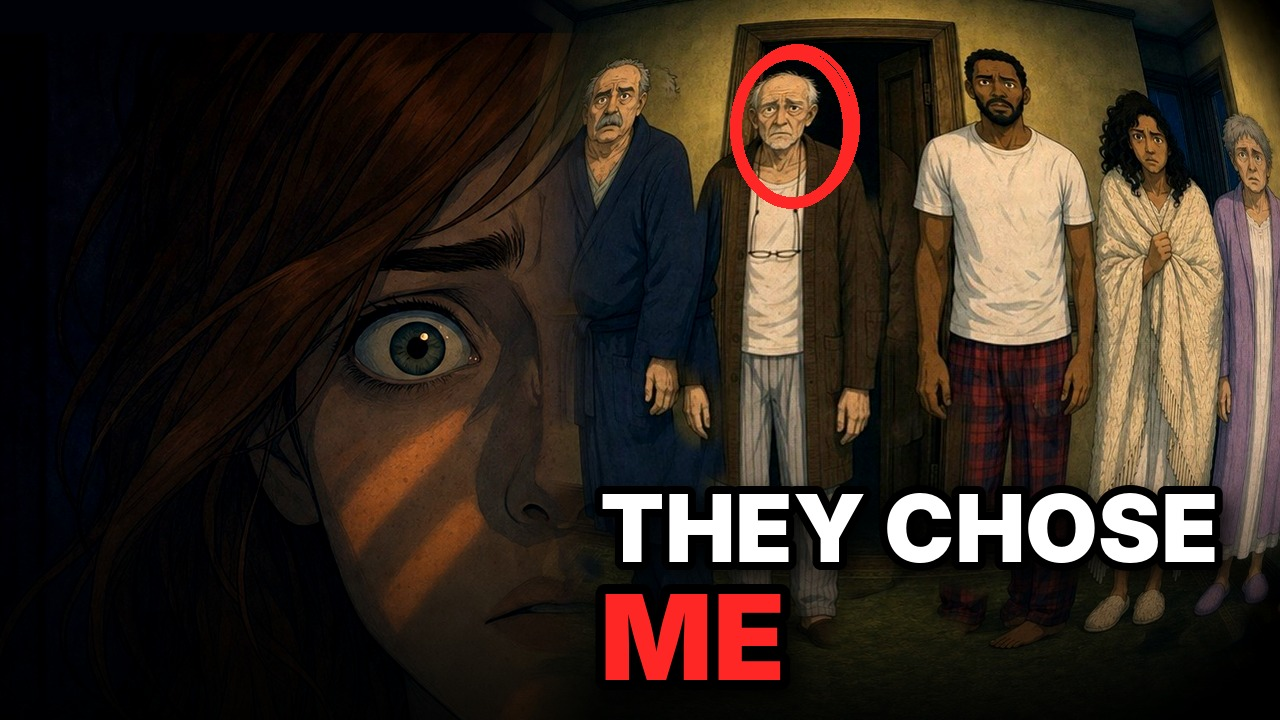
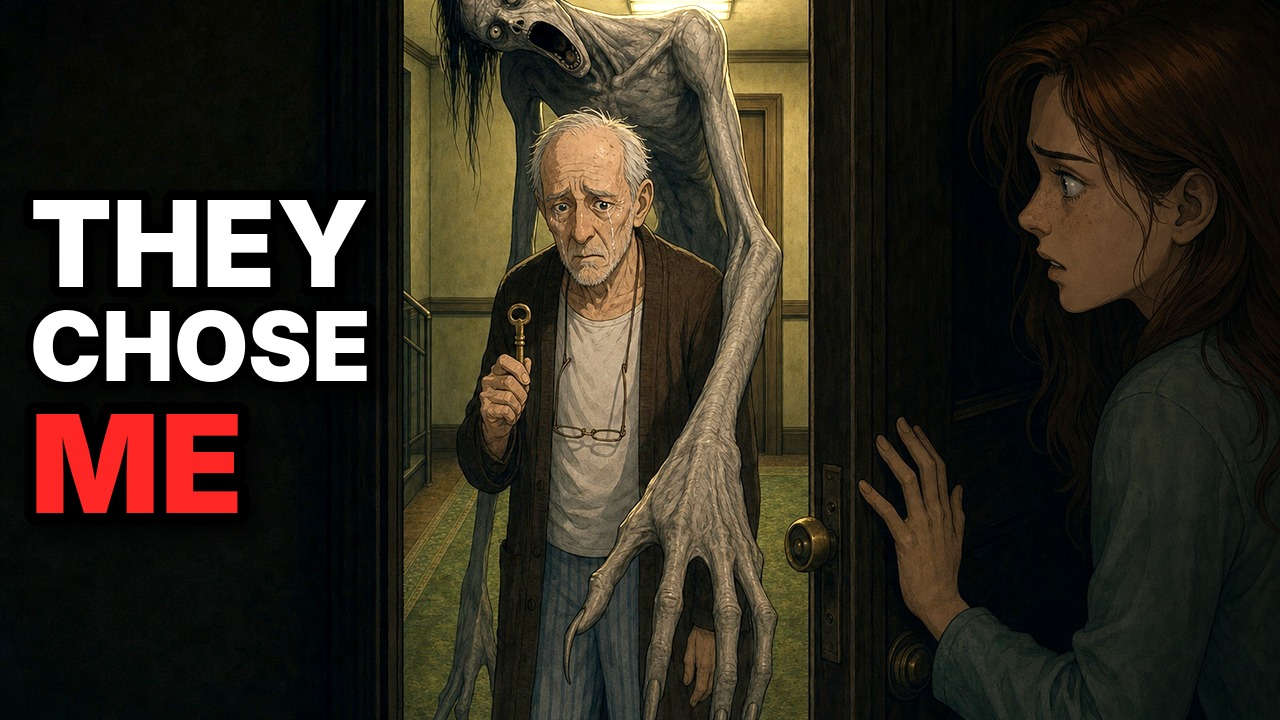
3:06: high-CTR YouTube package - purpose-drawn thumbnail art (3 concepts for Test & Compare), phone-feed preview, description hook and comment prompt within YouTube's 5,000-character limit, title alternatives, pinned comment, tags
Claude-Session: https://claude.ai/code/session_01HYgoxans3AHT78NQRMkcgm

diff --git a/door306-horror/scripts/images/thumbart.py b/door306-horror/scripts/images/thumbart.py
@@ -1,0 +1,100 @@
+#!/usr/bin/env python3
+"""Thumbnail artwork for "Never Open Your Door at 3:06 AM", drawn on purpose for small-screen clicks.
+
+Each concept is a real moment of the film. It is drawn tighter, brighter and simpler than the film
+frame, with big readable faces and an empty area kept for the title text (added later in code by
+scripts/make_thumbnails.py, never drawn by the model).
+
+    .venv/bin/python scripts/images/thumbart.py [name ...]   -> youtube/art/<name>.jpg (1920x1080, no text)
+
+It uses the same references, cost ledger and budget cap as restyle.py, and skips a concept whose
+output already exists (delete the file to redraw it).
+"""
+import sys
+from pathlib import Path
+
+sys.path.insert(0, str(Path(__file__).resolve().parent))
+import restyle as R  # noqa: E402
+
+OUT = R.ROOT / 'youtube' / 'art'
+
+THUMB = (
+    'This is the YouTube THUMBNAIL artwork of the film, in exactly the film\'s drawing style: ONE bold image that reads instantly at '
+    'tiny phone size. Big faces with strong, clear expressions; strong contrast; a little brighter and more saturated than the film\'s '
+    'night frames, with a cold rim light that separates each figure from the background; a simple, uncluttered background. '
+    'Do NOT draw any text, letters, numbers or logos - the title is added later.'
+)
+
+CONCEPTS = {
+    # Scene 8: the door forced open - Mr. Harris with the master key, the creature behind him.
+    'key': {
+        'refs': ['char:harris', 'char:creature', 'char:sarah', 'loc:hallway_cross'],
+        'chars': ['harris', 'creature', 'sarah'],
+        'loc': 'hallway_cross',
+        'prompt': (
+            'Seen from INSIDE Sarah\'s dark flat, looking out through her front door, which has been forced half open. In the doorway, in '
+            'the yellow-green light of the corridor: Mr. Harris, crying, tears on his cheeks, guilty eyes looking down and away, holding up '
+            'a brass master key in one hand. Right BEHIND him and towering over him, filling the top of the doorway, the CREATURE: its grey '
+            'head bent sideways almost onto its shoulder, its jaw hanging open far too wide, small pale eyes fixed on the viewer, one '
+            'impossibly long thin grey arm reaching forward past Mr. Harris toward the viewer. On the far RIGHT edge of the frame, in the '
+            'dark foreground, Sarah\'s terrified face in profile and her two hands pushing against the edge of the door. Keep the LEFT '
+            'third of the frame dark and empty (dark wood and shadow) for the title.'
+        ),
+        'mood': 'Sarah\'s flat is pitch dark; the only light is the sickly yellow-green corridor light pouring through the doorway, '
+                'rim-lighting the creature and Mr. Harris.',
+    },
+    # Scenes 4-7: through the peephole - every neighbour standing in the corridor, facing her door.
+    'peep': {
+        'refs': ['char:mother', 'char:harris', 'char:residents', 'char:creature', 'loc:hallway'],
+        'chars': ['mother', 'harris', 'residents', 'creature'],
+        'loc': 'hallway',
+        'prompt': (
+            'POINT OF VIEW straight out of an apartment door\'s peephole into the corridor at 3 a.m. All the neighbours stand close together '
+            'in the corridor in their night clothes, every one of them FACING THE CAMERA and staring straight into the peephole with blank, '
+            'hollow, guilty eyes: Mr. Harris in the centre front with tears on his cheeks; the East Asian mother holding her little boy '
+            'against her chest; and the five residents of the residents sheet around them. Their faces are large and clearly lit. Far '
+            'behind them, at the very end of the corridor, at the top of the stairwell, the tall grey CREATURE stands in shadow, its head '
+            'bent sideways, barely visible - a pale shape with long arms. Everything important is inside the CENTRE of the frame (the '
+            'image will be cut into a round peephole view).'
+        ),
+        'mood': 'Sickly yellow-green fluorescent corridor light, one tube flickering; deep shadows at the far end by the stairs.',
+    },
+    # Scene 4/8: Sarah inside, back against her door, hand over her mouth - the hallway light under the door.
+    'door': {
+        'refs': ['char:sarah', 'loc:flat'],
+        'chars': ['sarah'],
+        'loc': 'flat',
+        'prompt': (
+            'Medium close-up in the dark flat: Sarah stands with her back pressed flat against her front door, one hand clamped over her '
+            'own mouth, her eyes huge with terror, looking sideways toward the door. Her face fills the RIGHT half of the frame and is '
+            'clearly lit. Through the narrow gap UNDER the door, sickly yellow-green corridor light spills across the floor, and in that '
+            'strip of light, the shadows of two long, impossibly thin feet stand right outside her door. The brass security chain is '
+            'fastened. Keep the LEFT HALF of the frame dark (the door\'s dark wood) for the title.'
+        ),
+        'mood': 'Near darkness; a cold blue rim light on Sarah\'s face and hair; the yellow-green strip of corridor light under the door.',
+    },
+}
+
+
+def main(names: list[str]) -> int:
+    R.load_env()
+    R.require_key()
+    OUT.mkdir(parents=True, exist_ok=True)
+    for name in names or list(CONCEPTS):
+        c = CONCEPTS[name]
+        dst = OUT / f'{name}.jpg'
+        if dst.exists():
+            print(f'  {dst.name} exists - skipped')
+            continue
+        who = ' '.join(R.CHAR_NOTE[x] for x in c['chars'])
+        body = (f'{R.SAFE_NOTE}{THUMB} FRAME: {c["prompt"]} MOOD AND LIGHT: {c["mood"]} {who} SETTING: {R.LOC_NOTE[c["loc"]]}')
+        imgs, prompt = R.build_request(None, c['refs'], body)
+        img = R.openai_edit(imgs, prompt, 'thumb', f'thumb_{name}.jpg', quality='high')
+        R.uncanvas(img).save(dst, quality=94)
+        print(f'  -> {dst.relative_to(R.ROOT)}')
+    print(f'image spend so far: ${R.spent():.2f} of ${R.budget():.2f}')
+    return 0
+
+
+if __name__ == '__main__':
+    sys.exit(main(sys.argv[1:]))

diff --git a/door306-horror/scripts/make_thumbnails.py b/door306-horror/scripts/make_thumbnails.py
@@ -1,6 +1,7 @@
 #!/usr/bin/env python3
-"""YouTube thumbnails (1280x720) for "Never Open Your Door at 3:06 AM": composed from the film's own
-frames (no extra image cost) + crisp text (max 4 words) and one clear mystery mark.
+"""YouTube thumbnails (1280x720) for "Never Open Your Door at 3:06 AM": purpose-drawn art (made by
+scripts/images/thumbart.py from the film's own character sheets and locations, each a real moment of the
+film) + crisp text in code (max 3 words) and at most one red mark.
     .venv/bin/python scripts/make_thumbnails.py   -> youtube/thumbnail_*.jpg
 The circle/arrow positions are set per image after looking at the generated scene (MARKS)."""
 from pathlib import Path
@@ -99,27 +100,53 @@ def pop(im: Image.Image) -> Image.Image:
     return ImageEnhance.Color(im).enhance(1.15)
 
 
+def art(name: str) -> Image.Image:
+    """Purpose-drawn thumbnail art (scripts/images/thumbart.py -> youtube/art/<name>.jpg), 1280x720."""
+    return Image.open(ROOT / 'youtube' / 'art' / f'{name}.jpg').convert('RGB').resize((W, H), Image.LANCZOS)
+
+
+def lift(im: Image.Image, gamma: float = 0.82, contrast: float = 1.18, color: float = 1.2) -> Image.Image:
+    """Brighter mid-tones (thumbnails are seen small, often on a dark page), more contrast and colour."""
+    lut = [int(255 * (v / 255) ** gamma) for v in range(256)]
+    im = im.point(lut * 3)
+    im = ImageEnhance.Contrast(im).enhance(contrast)
+    return ImageEnhance.Color(im).enhance(color)
+
+
+def side_shade(im: Image.Image, until: float, amount: float = 0.7) -> Image.Image:
+    """Darken the left part of the frame (0 -> until*W) so the title reads over it."""
+    grad = Image.linear_gradient('L').rotate(90).resize((W, H))  # 255 at left -> 0 at right
+    grad = grad.point(lambda v: int(min(255, max(0, (v - 255 * (1 - until)) / (255 * until) * 255)) * amount))
+    return Image.composite(Image.new('RGB', (W, H), (0, 0, 0)), im, grad)
+
+
+def glow(im: Image.Image, box: tuple[int, int, int, int], gain: float = 1.6) -> Image.Image:
+    """Brighten one region with a soft edge (the light under the door)."""
+    bright = ImageEnhance.Brightness(im).enhance(gain)
+    mask = Image.new('L', (W, H), 0)
+    ImageDraw.Draw(mask).rectangle(box, fill=255)
+    return Image.composite(bright, im, mask.filter(ImageFilter.GaussianBlur(14)))
+
+
 def main() -> None:
     OUT.mkdir(exist_ok=True)
-    # A - THEY CHOSE ME: every neighbour staring through the peephole + Sarah's terrified face
-    a = frame('d_07_peephole_pov_k1_vturned_peep.jpg', 0.86, 960, 560, (860, 360))
-    a = frame('c_08_dread_k1.jpg', 0.78, 640, 470, (300, 400), canvas=a, box=(0, 0, 560, H))
-    a = pop(vignette(a, 0.55))
-    red_circle(a, 792, 128, 62, 80)  # Mr. Harris, crying, in the middle of them
-    a = bottom_shade(a, 0.6, 0.8)
-    text(a, [('THEY CHOSE', WHITE), ('ME', RED)], 600, 470, 118, 640, gap=0)
+    # A - THEY CHOSE ME: the door forced open; Mr. Harris with the master key, the creature towering behind him
+    a = lift(art('key'))
+    a = side_shade(a, 0.42, 0.55)
+    text(a, [('THEY', WHITE), ('CHOSE', WHITE), ('ME', RED)], 30, 170, 136, 350, gap=-4)
     a.save(OUT / 'thumbnail_A_they_chose_me.jpg', quality=92)
-    # B - 3:06 AM: the creature looming behind Mr. Harris
-    b = pop(vignette(frame('h_17_creature_k1_vjaw.jpg', 1.05, 1050, 470, (760, 380)), 0.5))
-    red_arrow(b, 1210, 300, 965, 118)  # the creature's head
-    b = bottom_shade(b, 0.55, 0.85)
-    text(b, [('3:06 AM', RED)], 60, 520, 170, 620)
+    # B - 3:06 AM: through the peephole, every neighbour staring at her door; the creature at the top of the stairs
+    b = lift(art('peep'), gamma=0.86)
+    red_circle(b, 618, 158, 34, 72, width=9)  # the creature at the end of the corridor
+    b = bottom_shade(b, 0.62, 0.85)
+    f = ImageFont.truetype(FONT, 150)
+    text(b, [('3:06 AM', RED)], int((W - ImageDraw.Draw(b).textlength('3:06 AM', font=f)) / 2), 548, 150, 900)
     b.save(OUT / 'thumbnail_B_306am.jpg', quality=92)
-    # C - DON'T OPEN IT: her eye at the peephole, wide with terror
-    c = pop(vignette(frame('d_14_eye_wide_k1_vwide.jpg', 0.9, 1000, 520, (560, 360)), 0.45))
-    red_circle(c, 1010, 340, 70, 150)  # the light of the peephole
-    c = bottom_shade(c, 0.6, 0.85)
-    text(c, [("DON'T OPEN IT", WHITE)], 60, 560, 128, 1150)
+    # C - DON'T OPEN IT: Sarah against her door, hand over her mouth; feet in the light under the door
+    c = lift(art('door'), gamma=0.8)
+    c = glow(c, (205, 632, 420, 720), 1.7)
+    red_arrow(c, 470, 520, 330, 640, width=12)
+    text(c, [("DON'T", WHITE), ('OPEN IT', RED)], 40, 70, 140, 470, gap=-4)
     c.save(OUT / 'thumbnail_C_dont_open.jpg', quality=92)
     print('youtube/thumbnail_A_they_chose_me.jpg, thumbnail_B_306am.jpg, thumbnail_C_dont_open.jpg')
 

diff --git a/door306-horror/STATUS.md b/door306-horror/STATUS.md
@@ -51,9 +51,20 @@ The plan is in [`PLAN.md`](PLAN.md) and the script, word for word, in [`SCRIPT.m
   - contact sheets, one frame every 4 s: `previews/check_contact_*.jpg`;
   - lip-sync sheet: `previews/check_lipsync.jpg`. 7 of 8 talking shots open on the words and close in the pauses; the eighth is a scream drawn with the mouth open.
 - **YouTube:** `youtube/` holds:
-  - `TITLE_AND_TAGS.txt` (title, 2 alternatives, 15 tags);
-  - `DESCRIPTION.txt` (spoiler-free hook, 10 chapters, the fiction disclaimer, 3 hashtags, 32 CC-BY credits);
-  - three thumbnails composed from film frames, at no image cost: `thumbnail_A_they_chose_me.jpg`, `thumbnail_B_306am.jpg`, `thumbnail_C_dont_open.jpg`.
+  - `TITLE_AND_TAGS.txt`:
+    - title (55 characters, fits on a phone) and 2 alternatives for a title test;
+    - the thumbnail plan for Test & Compare;
+    - a pinned comment;
+    - 18 tags.
+  - `DESCRIPTION.txt`, 4,102 characters (YouTube's limit is 5,000):
+    - a hook in the first two lines and a comment prompt;
+    - 10 spoiler-free chapters and the fiction disclaimer;
+    - 3 hashtags and 32 short CC-BY credits.
+  - Three thumbnails with purpose-drawn art (`scripts/images/thumbart.py`, $0.77; raw art without text in `youtube/art/`). Each shows a real moment of the film, and the text is added in code (`scripts/make_thumbnails.py`):
+    - **A, main:** "THEY CHOSE ME". The door is forced open; Mr. Harris holds the master key, with the creature behind him.
+    - **B, test:** "3:06 AM". Through the peephole, every neighbour stares at her door, with the creature at the stairs.
+    - **C, test:** "DON'T OPEN IT". Sarah presses against her door with a hand over her mouth; feet show in the light under the door.
+  - `feed_preview.jpg`: the three thumbnails at phone home-feed size and search-result size.
 
 ## Fixes after the user's review
 
@@ -74,7 +85,7 @@ The plan is in [`PLAN.md`](PLAN.md) and the script, word for word, in [`SCRIPT.m
 
 ## Cost
 
-- **Images:** $33.16 of the $40 cap, from 165 image requests including the review fixes (cost log at `logs/image_costs.jsonl`).
+- **Images:** $33.93 of the $40 cap, from 168 image requests, including the review fixes and the 3 thumbnail artworks (cost log at `logs/image_costs.jsonl`).
 - **Voices:** about $0.14.
 - **MiniMax:** $0.
 
